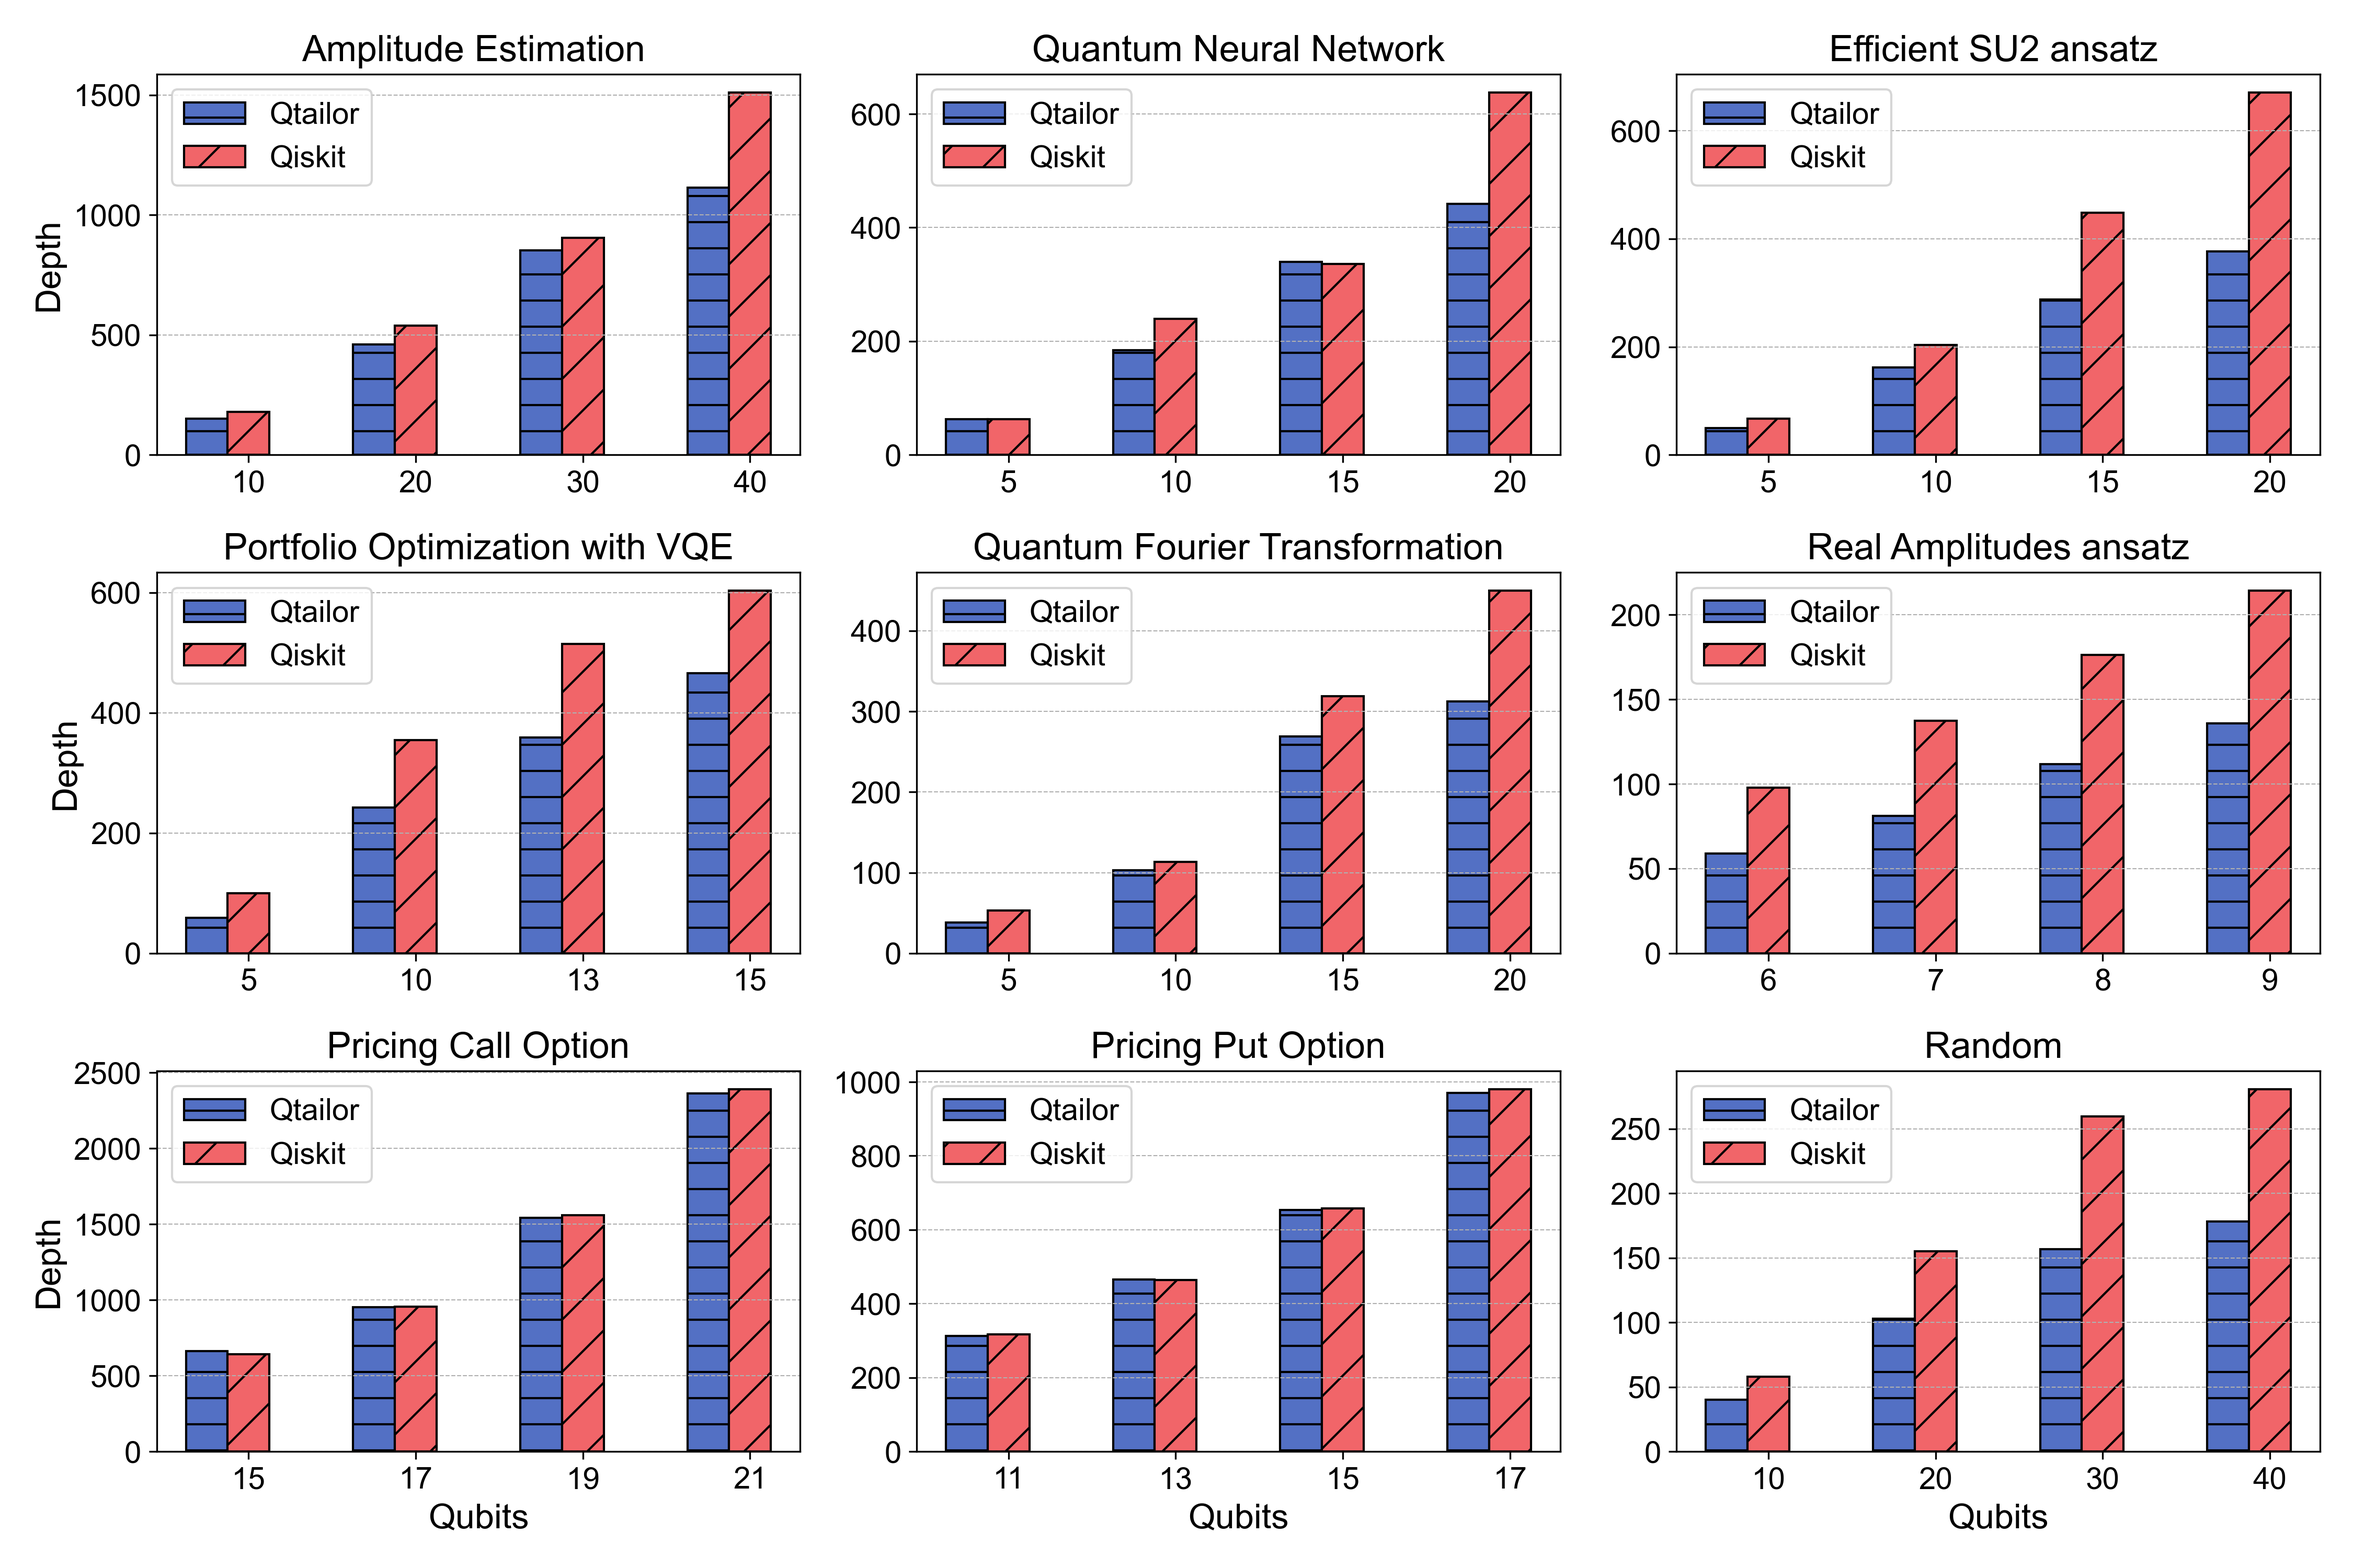
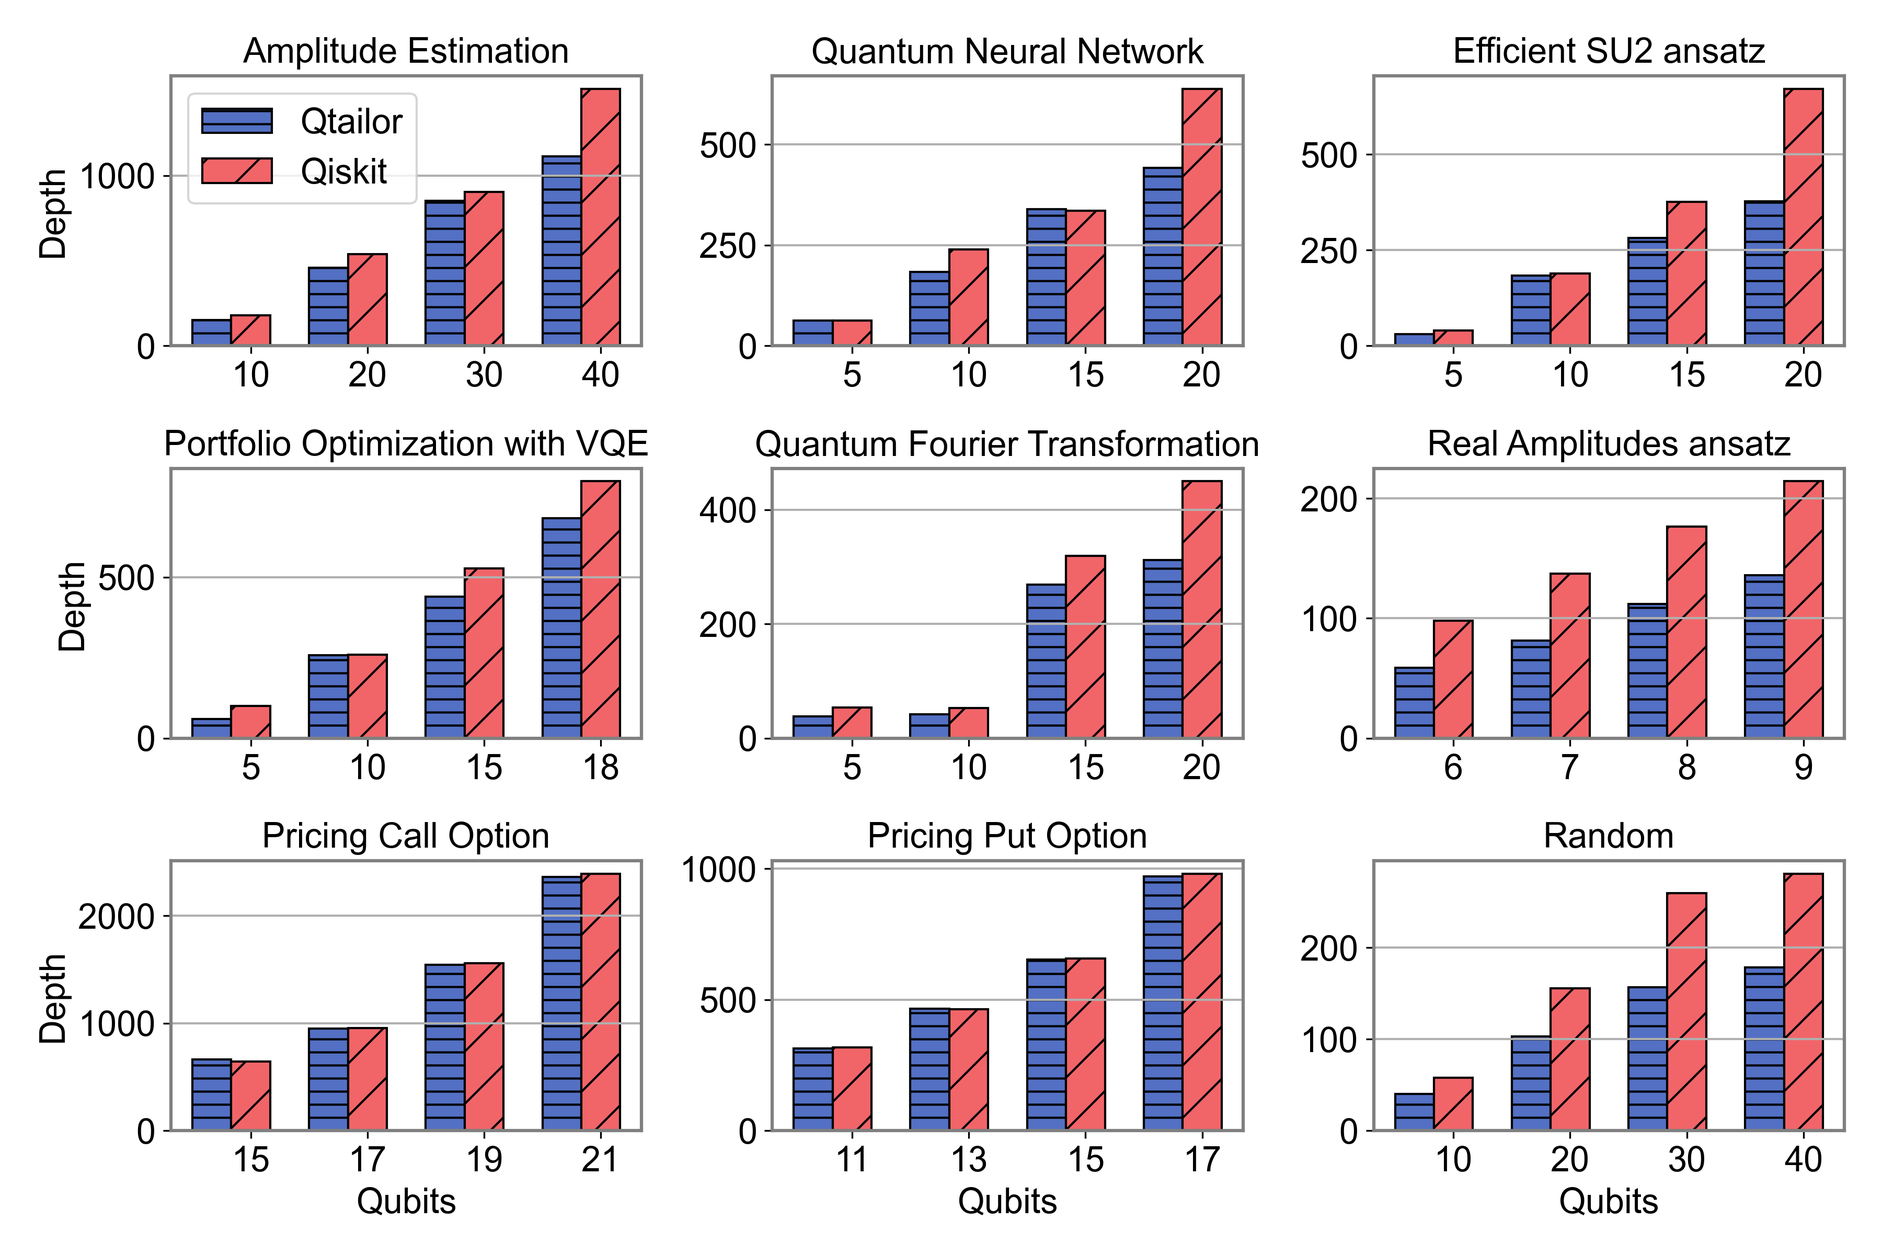
update plot

diff --git a/utils/plot/depth_bar.py b/utils/plot/depth_bar.py
@@ -1,10 +1,16 @@
+import os
+
 import matplotlib.pyplot as plt
 import matplotlib as mpl
 import numpy as np
 import re
 from utils.file.excel_util import ExcelUtil
-mpl.rcParams['font.family'] = ['Times New Roman']
-mpl.rcParams['font.size'] = 20
+from utils.file.file_util import FileUtil
+
+mpl.rcParams['font.family'] = ['Arial']
+mpl.rcParams['font.size'] = 16
+rootdir = FileUtil.get_root_dir()
+sep = os.path.sep
 #9个柱状图
 
 data={}
@@ -13,7 +19,7 @@ labels_2d = [
 ]
 title = [
     'Amplitude Estimation',
-    'Quantum Neural Networkx',
+    'Quantum Neural Network',
     'Efficient SU2 ansatz',
     'Portfolio Optimization with VQE',
     'Quantum Fourier Transformation',
@@ -23,7 +29,8 @@ title = [
     'Random',
 ]
 # get data
-sheets, dfs = ExcelUtil.read_by_sheet('d:/temp.xlsx')
+path = rootdir + sep + 'data' + sep + 'depth_benchmark_summary.xlsx'
+sheets, dfs = ExcelUtil.read_by_sheet(path)
 # pharse data
 for sheet in sheets:
     df = dfs[sheet]
@@ -46,7 +53,7 @@ bar_width = 0.04
 index = np.arange(len(labels))*0.12
 
 # 创建3x3的子图布局
-fig, axes = plt.subplots(3, 3, figsize=(12, 10))  # figsize可以根据需要调整
+fig, axes = plt.subplots(3, 3, figsize=(12, 8))  # figsize可以根据需要调整
 
 plt.subplots_adjust(hspace=0.25,wspace = 0.2)
 # 遍历数据和子图网格，绘制柱状图
@@ -69,12 +76,16 @@ for i, (group_name, (group1, group2,group3)) in enumerate(data.items()):
 
     # 获取当前子图的axes对象
     ax = axes[row, col]
+    # 设置子图边框宽度
+    for spine in ax.spines.values():
+        spine.set_linewidth(1.5)  # 将边框宽度设置为2
+        spine.set_edgecolor('grey')  # 设置边框颜色
 
     # 绘制第一组数据的柱状图
-    ax.bar(index, group1,  bar_width,color = '#5370c4',label=f'{group_name} 1',hatch='--', edgecolor='black')
+    ax.bar(index, group1,  bar_width,color = '#5370c4',label=f'{group_name} 1',hatch='--', edgecolor='black',zorder = 0)
 
     # 绘制第二组数据的柱状图
-    ax.bar(index + bar_width, group2, bar_width,color = '#f16569', label=f'{group_name} 2',hatch='/', edgecolor='black')
+    ax.bar(index + bar_width, group2, bar_width,color = '#f16569', label=f'{group_name} 2',hatch='/', edgecolor='black',zorder = 1)
     #ax.bar(index + bar_width*2, group3, bar_width,color = '#95c978', label=f'{group_name} 3',hatch='//', edgecolor='black')
 
     # 添加图例
@@ -85,17 +96,19 @@ for i, (group_name, (group1, group2,group3)) in enumerate(data.items()):
     ax.set_xticks(index + bar_width / 1)
     ax.set_xticklabels(labels_2d[i])
     if i % 3 ==0:
-        ax.set_ylabel('Depth', fontsize = 20)
+        ax.set_ylabel('Depth', fontsize = 16)
     if i in range(6,9):
-        ax.set_xlabel('Qubits' ,fontsize = 20)
+        ax.set_xlabel('Qubits' ,fontsize = 16)
     # 设置图表的标题
     ax.set_title(title[i], fontsize = 16)
     # 显示背景网格
-    ax.grid(True, which='both', axis='y', linestyle='--', linewidth=0.5)
+    ax.grid(True, which='both', axis='y', linestyle='-', linewidth=1,zorder = 0)
 # print(cnt/all)
-# 调整子图之间的间距
-plt.tight_layout()
-plt.savefig('benchmarkBar.pdf',dpi=300)
+    # 调整子图之间的间距
+    plt.tight_layout()
+
+    path = rootdir + sep + 'data' + sep + 'fig' + sep + 'benchmarkBar.png'
+plt.savefig(path,dpi=300)
 # 显示图表
 plt.show()
 

diff --git a/utils/file/csv_util.py b/utils/file/csv_util.py
@@ -77,4 +77,4 @@ def demo():
     CSVUtil.write_data(csv_path,[['datetime', 'qasm', 'rl', 'qiskit', 'rl_qiskit', 'result', 'iter', 'remark', 'checkpoint'] ])
 if __name__ == '__main__':
 
-    CSVUtil.to_dataframe(relative_path=r'data/train_demo/ae40/env6.csv')
+    CSVUtil.to_dataframe(relative_path=r'data/train_metric/ae40/env6.csv')
